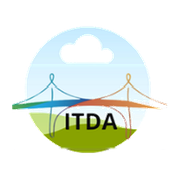
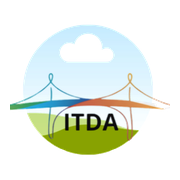
feat: 새 로고 적용 — 원형 아이콘(홈 화면·탭), 다리 글자 로고(첫 화면·링크 미리보기)
- 원형 로고의 보라색 안내선 제거, 원 밖 흔적 정리
- assets/brand/: 원본 정리본(원형·가로형·꽃 모양) 보관

diff --git a/apps/web/src/pages/StartPage.tsx b/apps/web/src/pages/StartPage.tsx
@@ -46,8 +46,8 @@ export function StartPage({ onStart }: { onStart: () => void }) {
       }
     >
       <div className="flex flex-1 flex-col items-center justify-center gap-4 text-center">
-        <img src="/logo.png" alt="" width={512} height={512} className="h-auto w-48 max-w-[55vw]" />
-        <p className="text-5xl font-extrabold text-navy">ITDA</p>
+        {/* 다리 로고 안에 ITDA 글자가 들어 있다 */}
+        <img src="/logo.png" alt="ITDA" width={720} height={199} className="h-auto w-80 max-w-[85vw]" />
         <p className="text-2xl font-bold text-brand-dark">잇다</p>
         <p className="text-xl font-semibold">소리가 없어도, 우리는 이어집니다.</p>
         <p className="text-muted">이 앱은 글을 목소리로 바꿔 상대에게 들려줘요. 상대방은 설치가 필요 없어요.</p>
